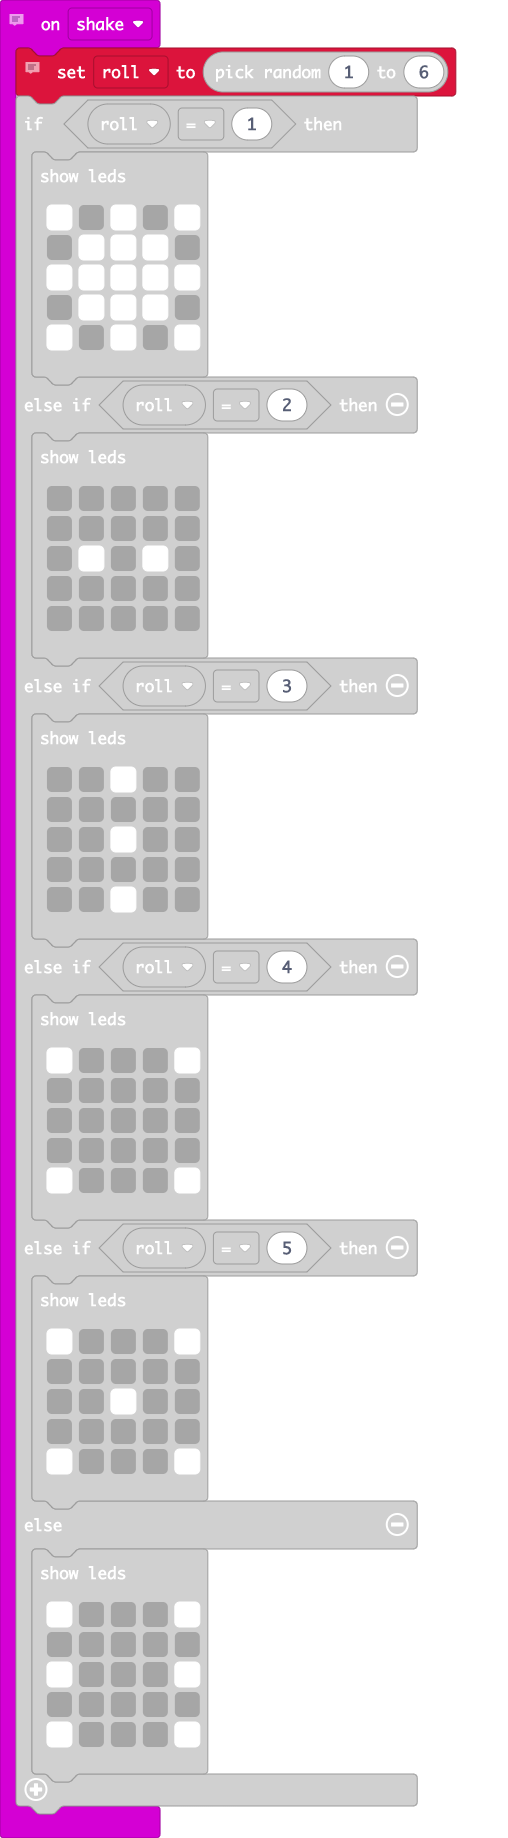
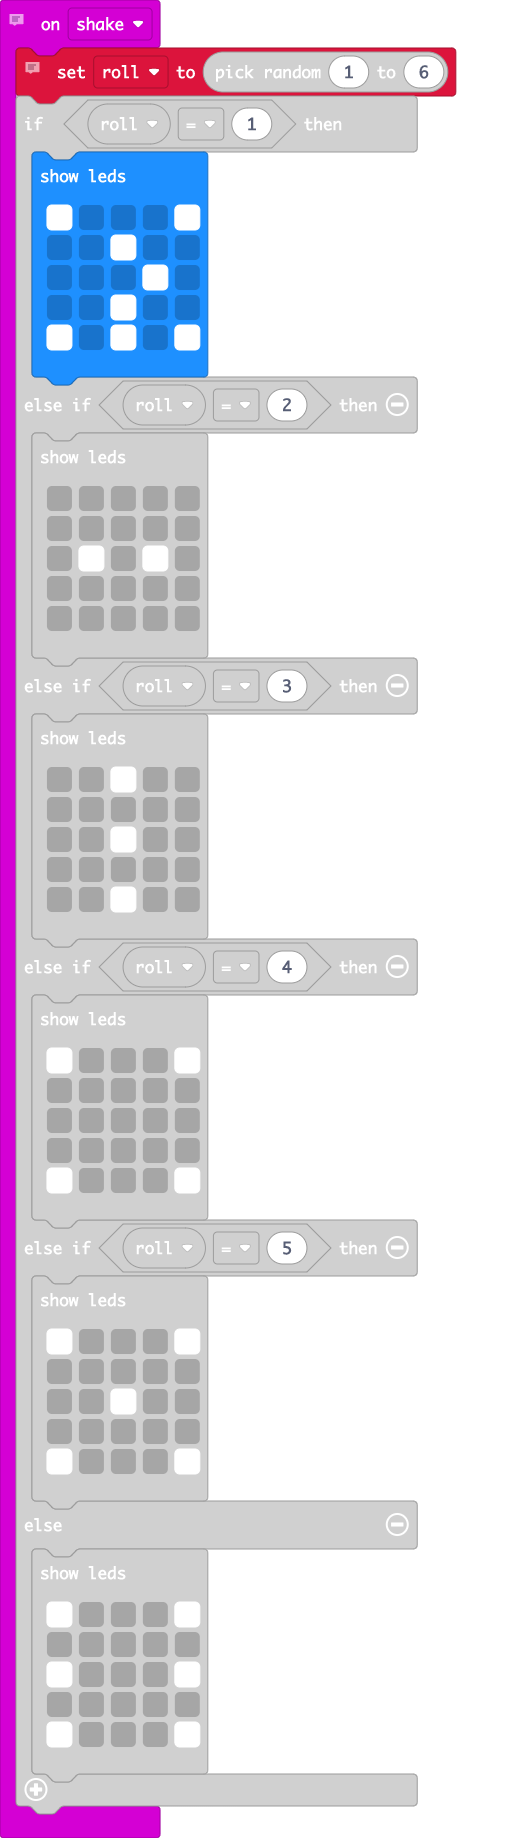
Update main.blocks, main.ts

Changed region(s): [[0.0591, 0.062, 0.4134, 0.2171]]

diff --git a/main.ts b/main.ts
@@ -6,10 +6,10 @@ input.onGesture(Gesture.Shake, function () {
     roll = randint(1, 6)
     if (roll == 1) {
         basic.showLeds(`
-            # . # . #
-            . # # # .
-            # # # # #
-            . # # # .
+            # . . . #
+            . . # . .
+            . . . # .
+            . . # . .
             # . # . #
             `)
     } else if (roll == 2) {
